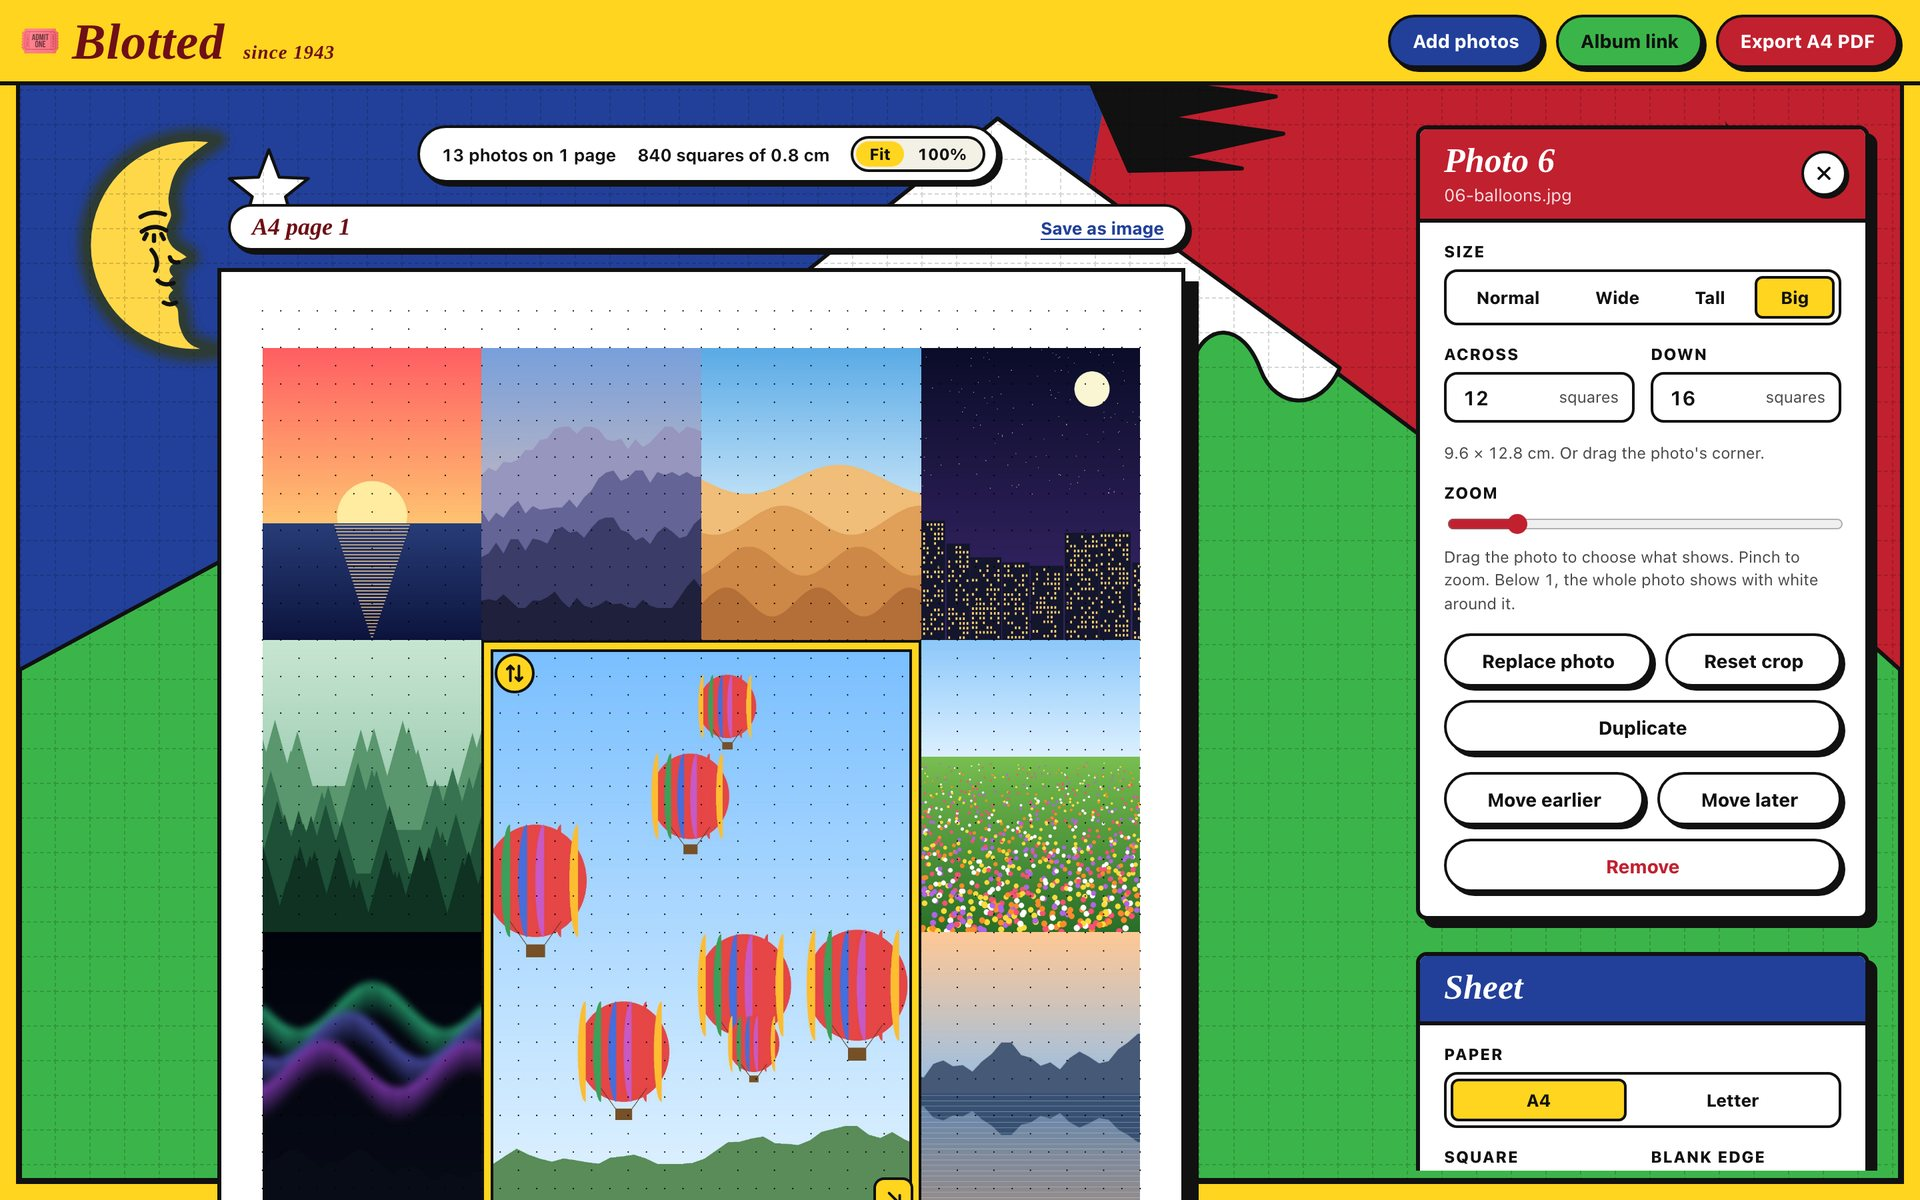
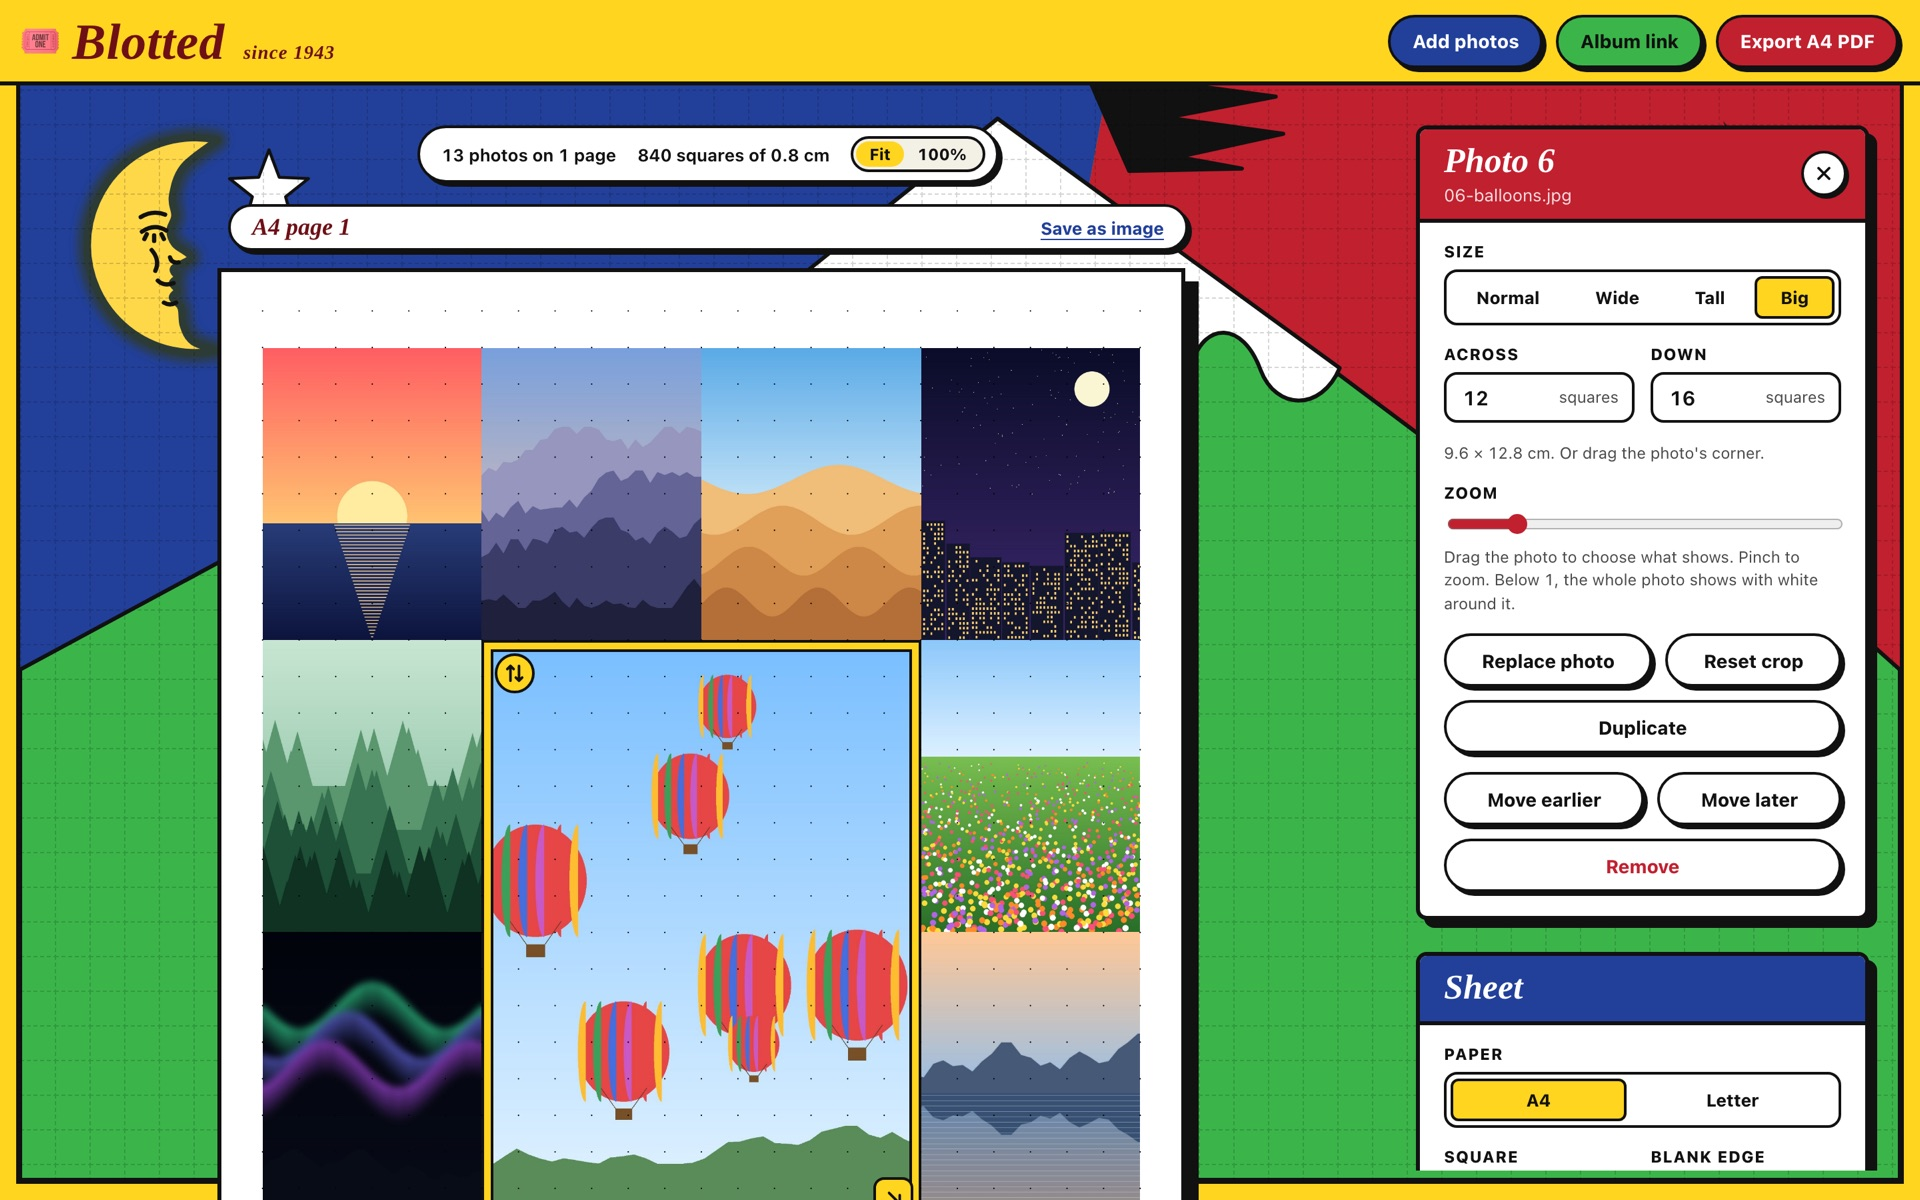
Dots at the corners of each square only by default
Spacing now starts at 8 mm, so each square gets a dot at its corners and none along its sides. Settings saved with the old 4 mm default move over once, keeping everything else. README and screenshots show the new grid.

diff --git a/src/storage.ts b/src/storage.ts
@@ -13,7 +13,9 @@ export interface StoredPhoto {
   crop: Crop;
 }
 
-const SETTINGS_KEY = 'blotted.settings.v2';
+const SETTINGS_KEY = 'blotted.settings.v3';
+/** Settings saved when the dots came 4 mm apart by default: kept, except the dot spacing. */
+const OLD_SETTINGS_KEY = 'blotted.settings.v2';
 const DATABASE = 'blotted';
 const BLOBS = 'blobs';
 const PROJECT = 'project';
@@ -22,8 +24,11 @@ const PHOTOS_KEY = 'photos';
 export const loadSettings = (): Settings => {
   try {
     const raw = localStorage.getItem(SETTINGS_KEY);
+    if (raw) return cleanSettings(JSON.parse(raw));
+    const old = JSON.parse(localStorage.getItem(OLD_SETTINGS_KEY) ?? '{}');
+    delete old.dotSpacing;
 
-    return cleanSettings(raw ? JSON.parse(raw) : {});
+    return cleanSettings(old);
   } catch {
     return cleanSettings({});
   }

diff --git a/src/layout.test.ts b/src/layout.test.ts
@@ -125,8 +125,9 @@ describe('crop', () => {
 });
 
 describe('dots', () => {
-  test('4 mm apart by default: both corners and the middle of each square side', () => {
-    expect(dotStep(DEFAULT_SETTINGS)).toBe(4);
+  test('a dot at each corner only by default, the usual blotter square too', () => {
+    expect(dotStep(DEFAULT_SETTINGS)).toBe(8);
+    expect(dotStep({...DEFAULT_SETTINGS, square: 6.35})).toBe(6.35);
   });
 
   test('the whole grid, empty places too, each dot once', () => {

diff --git a/src/layout.ts b/src/layout.ts
@@ -35,7 +35,7 @@ export const DEFAULT_SETTINGS: Settings = {
   slotWidth: 6,
   slotHeight: 8,
   margin: 8,
-  dotSpacing: 4,
+  dotSpacing: 8,
 };
 
 export const LIMITS = {

diff --git a/README.md b/README.md
@@ -24,7 +24,8 @@ The screenshots use drawn sample images, not real photos.
 - **Sheet**: A4 or Letter, square size (0.8 cm by default; the usual blotter is ¼ in), photo shape (3:4, 1:1, 4:3),
   blank edge for the printer, dot spacing. Photos fit the page by default: they grow to fill it and shrink as more
   are added, in whole squares; or set a fixed size.
-- **Grid**: black dots on every square of the page, empty places included; photo edges are always cut lines.
+- **Grid**: a black dot at each corner of every square of the page, empty places included (a smaller dot spacing
+  adds dots along the sides); photo edges are always cut lines.
 - **Export**: a PDF at the paper's exact size (vector dots, photos at 300 dpi), or a JPEG of one page. Print at 100%.
 - Photos and layout stay on the device (IndexedDB); your own photos are never uploaded. Works offline once opened.
 
